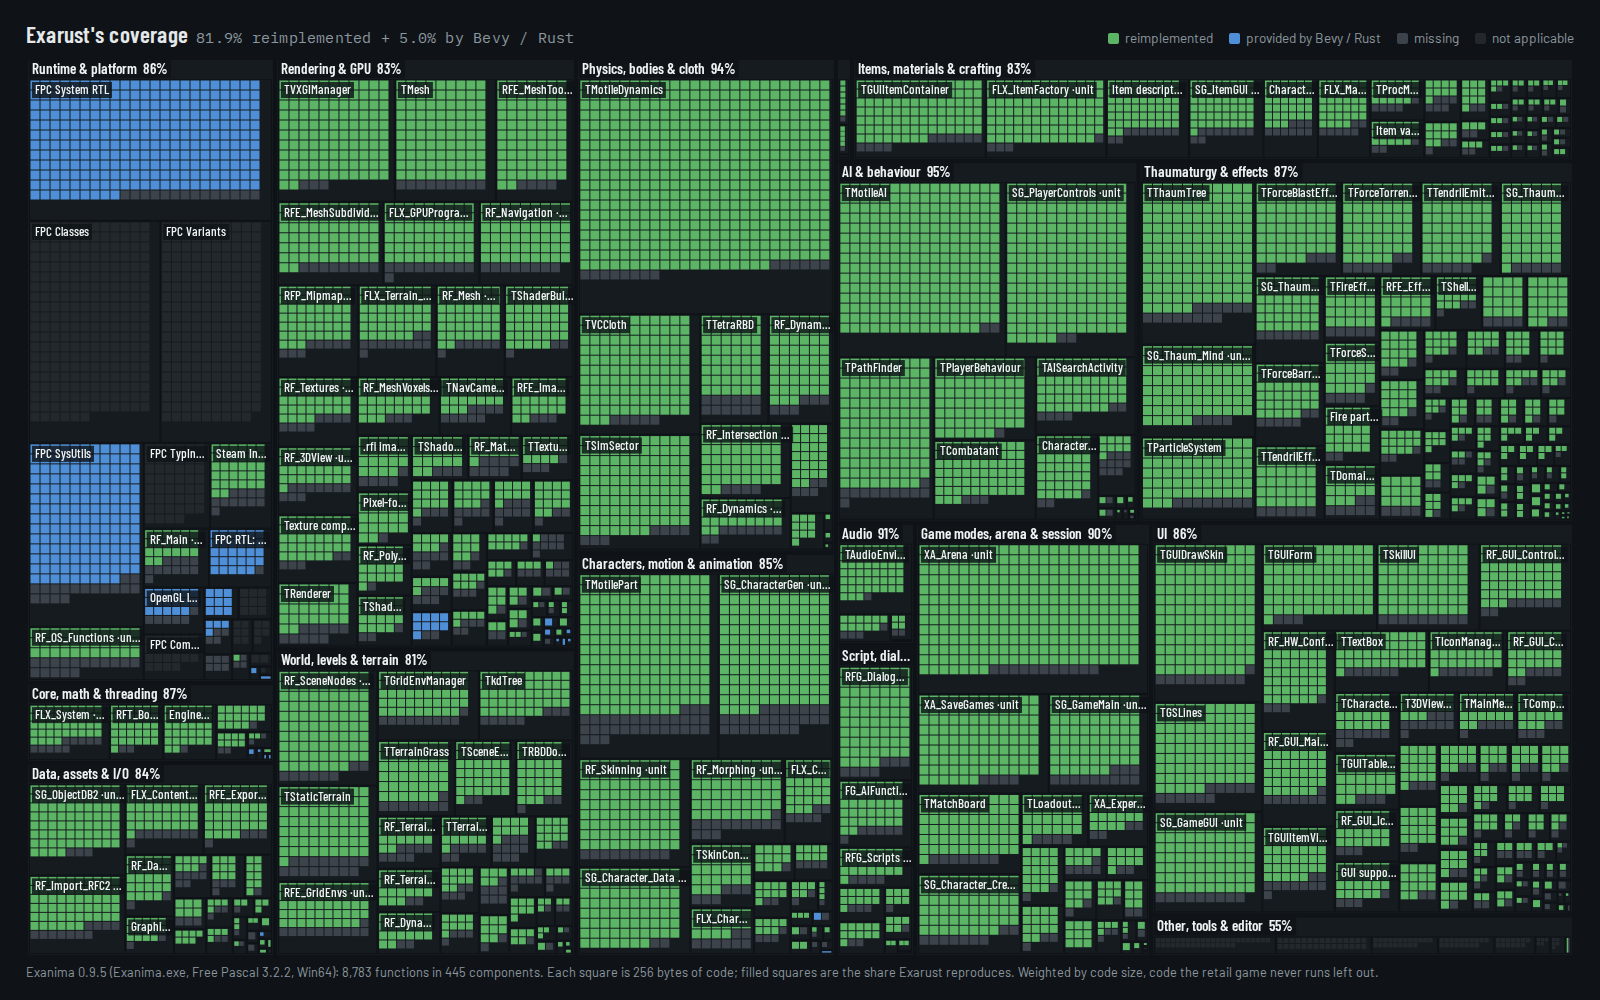
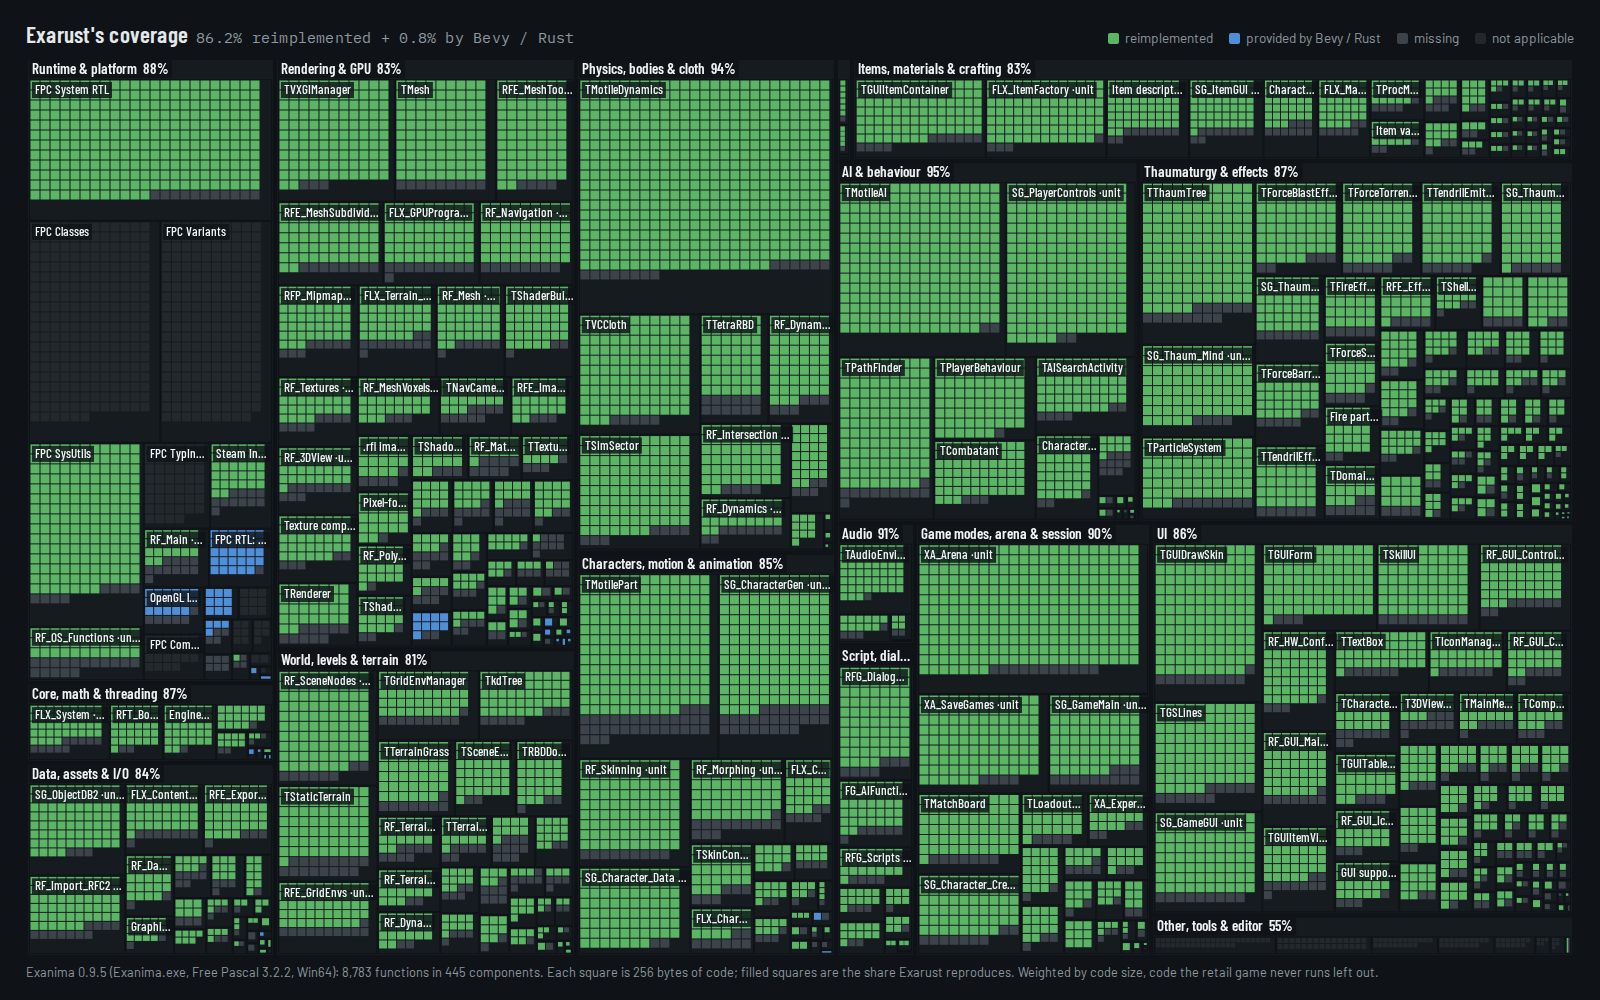
Rate round 183's lane

Changed region(s): [[0.0, 0.062, 0.1875, 0.217], [0.0, 0.434, 0.0938, 0.62]]

diff --git a/docs/COMPONENT-MAP.md b/docs/COMPONENT-MAP.md
@@ -5,15 +5,15 @@ Every function of the retail `Exanima.exe` (Exanima 0.9.5, Free Pascal 3.2.2, Wi
 ## Headline
 
 - **8,783 functions**, 2,616 KB of code, in **445 components** across 16 sections.
-- Weighted by code size, with code the retail game never runs left out (1,343 functions, 163 KB): **81.9% reimplemented** by Exarust's own code and **5.0% provided** by Bevy, wgpu, rapier or the Rust standard library.
-- Weighted by function count (zero-byte imported names left out): 73.3% and 11.9%. The runtime's many tiny RTL routines make this figure lean towards the engine, which is why code size is the headline.
+- Weighted by code size, with code the retail game never runs left out (1,343 functions, 163 KB): **86.2% reimplemented** by Exarust's own code and **0.8% provided** by Bevy, wgpu, rapier or the Rust standard library.
+- Weighted by function count (zero-byte imported names left out): 84.2% and 1.3%. The runtime's many tiny RTL routines make this figure lean towards the engine, which is why code size is the headline.
 - The 24 combat-rule functions (52 KB of damage, armour and weapon-stat rules inside body, part, AI and item owners) are **90.6%** reproduced.
 
 ## By section
 
 | section | functions | KB | components | reimplemented | by engine | largest missing |
 |---|---:|---:|---:|---:|---:|---|
-| Runtime & platform | 2,407 | 293 | 26 | 13% | 73% |  |
+| Runtime & platform | 2,407 | 293 | 26 | 79% | 9% |  |
 | Core, math & threading | 282 | 37 | 11 | 86% | 1% |  |
 | Data, assets & I/O | 440 | 91 | 26 | 84% | 0% |  |
 | Rendering & GPU | 823 | 334 | 63 | 82% | 1% |  |
@@ -64,9 +64,11 @@ Ordered by code size; these are where most of the original still has no counterp
 |---|---|---:|---:|---|
 | TMotileDynamics | Physics, bodies & cloth | 121 | 97% | exa_physics/src/body_feet.rs; exa_physics/src/body_gait.rs |
 | XA_Arena | Game modes, arena & session | 71 | 96% | exa_game/src/arena_outfit.rs; exa_game/src/arena_outfit_data.rs |
+| FPC System RTL | Runtime & platform | 69 | 96% | Rust core/std; bevy |
 | TMotileAI | AI & behaviour | 60 | 99% | exa_ai/src/chase.rs; exa_ai/src/route.rs |
 | SG_PlayerControls | AI & behaviour | 47 | 99% | exa_game/src/player_controls.rs; exa_game/src/idle_orbit.rs |
 | TMotilePart | Characters, motion & animation | 53 | 85% | exa_physics/src/part.rs; exa_physics/src/grip.rs |
+| FPC SysUtils | Runtime & platform | 42 | 95% | Rust std; thiserror error enums |
 | SG_CharacterGen | Characters, motion & animation | 43 | 85% | exa_character/src/layers.rs; exa_character/src/look.rs |
 | TThaumTree | Thaumaturgy & effects | 38 | 91% | exa_game/src/thaum/tree.rs; exa_game/src/power_screen.rs |
 | TGUIDrawSkin | UI | 35 | 93% | exa_ui/src/skin.rs; exa_ui/src/gui_draw.rs |
@@ -80,8 +82,6 @@ Ordered by code size; these are where most of the original still has no counterp
 | TMesh | Rendering & GPU | 25 | 91% | exa_formats/src/rfc.rs; exa_assets/src/model.rs |
 | RF_Skinning | Characters, motion & animation | 25 | 91% | exa_assets/src/skin.rs; exa_assets/src/model.rs |
 | RF_SceneNodes | World, levels & terrain | 24 | 92% | exa_world/src/scene_nodes.rs; exa_world/src/light_flood.rs |
-| TGSLines | UI | 24 | 89% | exa_ui/src/skin.rs; exa_ui/src/line_skin.rs |
-| SG_Thaum_Mind | Thaumaturgy & effects | 21 | 95% | exa_game/src/mind/casts.rs; exa_game/src/mind/sight.rs |
 
 ## Combat rules
 

diff --git a/docs/reviews/coverage-history.md b/docs/reviews/coverage-history.md
@@ -256,3 +256,4 @@ while the map was being built, so treat the row as a best-effort snapshot.
 | 2026-11-11 | cb6d0a569 | clean | 81.9% | 5.0% | 73.3% | 87.0% | Rate round 180's lane |
 | 2026-11-11 | 536b35894 | clean | 81.9% | 5.0% | 73.3% | 87.0% | Rate round 181's lane |
 | 2026-11-11 | 7bb24aa84 | clean | 81.9% | 5.0% | 73.3% | 90.6% | Rate round 182's combat rules |
+| 2026-11-11 | 6abcaadeb | clean | 86.2% | 0.8% | 84.2% | 90.6% | Rate round 183's lane |
